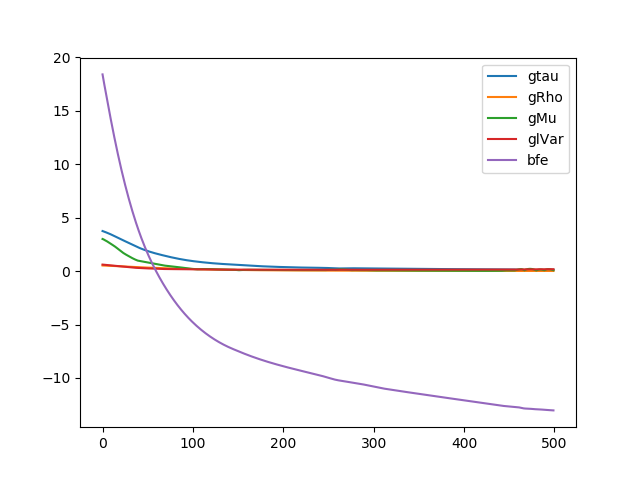
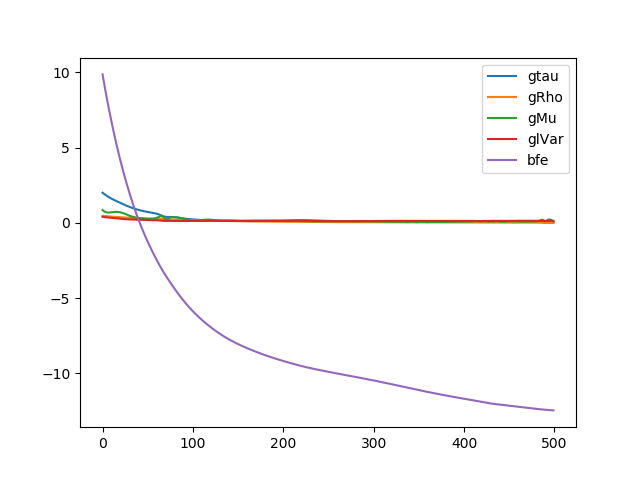
add fix_mix_its option to fix the mixing weights for a certain number of initial iterations (discrete_mln_test_1 and hybrid_mln_test_1 results are now slightly different from before b/c tf randomness is apparently affected by the creating of fix_mix_op)

diff --git a/osi/OneShot.py b/osi/OneShot.py
@@ -42,9 +42,11 @@ class OneShot:
         tf.reset_default_graph()  # clear existing
         if seed is not None:  # note that seed that has been set prior to tf.reset_default_graph will be invalidated
             tf.set_random_seed(seed)  # thus we have to reseed after reset_default_graph
-        tau = tf.Variable(tf.zeros(K, dtype=dtype), trainable=True, name='tau')  # mixture weights logits
+        zeros_K = tf.zeros(K, dtype=dtype)
+        tau = tf.Variable(zeros_K, trainable=True, name='tau')  # mixture weights logits
         # tau = tf.Variable(tf.random_normal([K], dtype=dtype), trainable=True, name='tau')  # mixture weights logits
         w = tf.nn.softmax(tau, name='w')  # mixture weights
+        fix_mix_op = tf.assign(tau, zeros_K)  # op that resets mixing weights to uniform
 
         bfe = aux_obj = 0
         if g.Nd > 0:
@@ -161,7 +163,7 @@ class OneShot:
             return grads_and_vars, grads_update
 
     def run(self, its=100, lr=5e-2, tf_session=None, optimizer=None, trainable_params=None, grad_check=False,
-            logging_itv=10):
+            logging_itv=10, fix_mix_its=0):
         """
         Launch tf training session and optimize the BFE, to get optimal mixture belief params.
         :param its:
@@ -169,6 +171,10 @@ class OneShot:
         :param tf_session:
         :param optimizer:
         :param trainable_params:
+        :param grad_check: if True, will only run one iteration, print gradients, then return
+        :param logging_itv: log to console every this many its
+        :param fix_mix_its: fix mixing weights to uniform for this many initial iterations; defaul = 0, i.e., mixing
+        weights are never fixed; set to 'all' (or its) to keep the mixing weights always at uniform
         :return:
         """
         g = self.g
@@ -178,6 +184,8 @@ class OneShot:
             optimizer = tf.train.AdamOptimizer(lr)
         if trainable_params is None:  # means all params are trainable
             trainable_params = tf.trainable_variables()
+        if fix_mix_its == 'all':
+            fix_mix_its = its
 
         # grads_and_vars = optimizer.compute_gradients(aux_obj, var_list=trainable_params)
         # # clip gradients if needed
@@ -232,6 +240,9 @@ class OneShot:
                 bfe_, grads_and_vars_, _ = sess.run([bfe, grads_and_vars, grads_update])
 
             sess.run(clip_op)  # does nothing if no cont nodes
+            if it < fix_mix_its:
+                sess.run(self.fix_mix_op)
+
             avg_grads = []
             for i in range(len(grads_and_vars_)):
                 grad = grads_and_vars_[i][0]

diff --git a/osi/OSIHybridMLNDemo.py b/osi/OSIHybridMLNDemo.py
@@ -126,11 +126,16 @@ for _ in range(num_tests):
     print(name, 'var', np.average(np.average(res ** 2, axis=1)) - np.average(np.average(abs(res), axis=1)) ** 2)
 
     name = 'OSI'
+    K = 5
+    T = 20
+    lr = 0.1
+    its = 200
+    fix_mix_its = int(its * 0.)
     res = np.zeros((len(key_list), num_runs))
-    osi = OneShot(g=g, K=5, T=20, seed=seed)  # can be moved outside of all loops, as the ground MRF doesn't change
+    osi = OneShot(g=g, K=K, T=T, seed=seed)  # can be moved outside of all loops, as the ground MRF doesn't change
     for j in range(num_runs):
         start_time = time.process_time()
-        osi.run(lr=0.1, its=200)
+        osi.run(lr=lr, its=its, fix_mix_its=fix_mix_its)
         time_cost[name] = (time.process_time() - start_time) / num_runs / num_tests + time_cost.get(name, 0)
         print(name, f'time {time.process_time() - start_time}')
         for i, key in enumerate(key_list):
